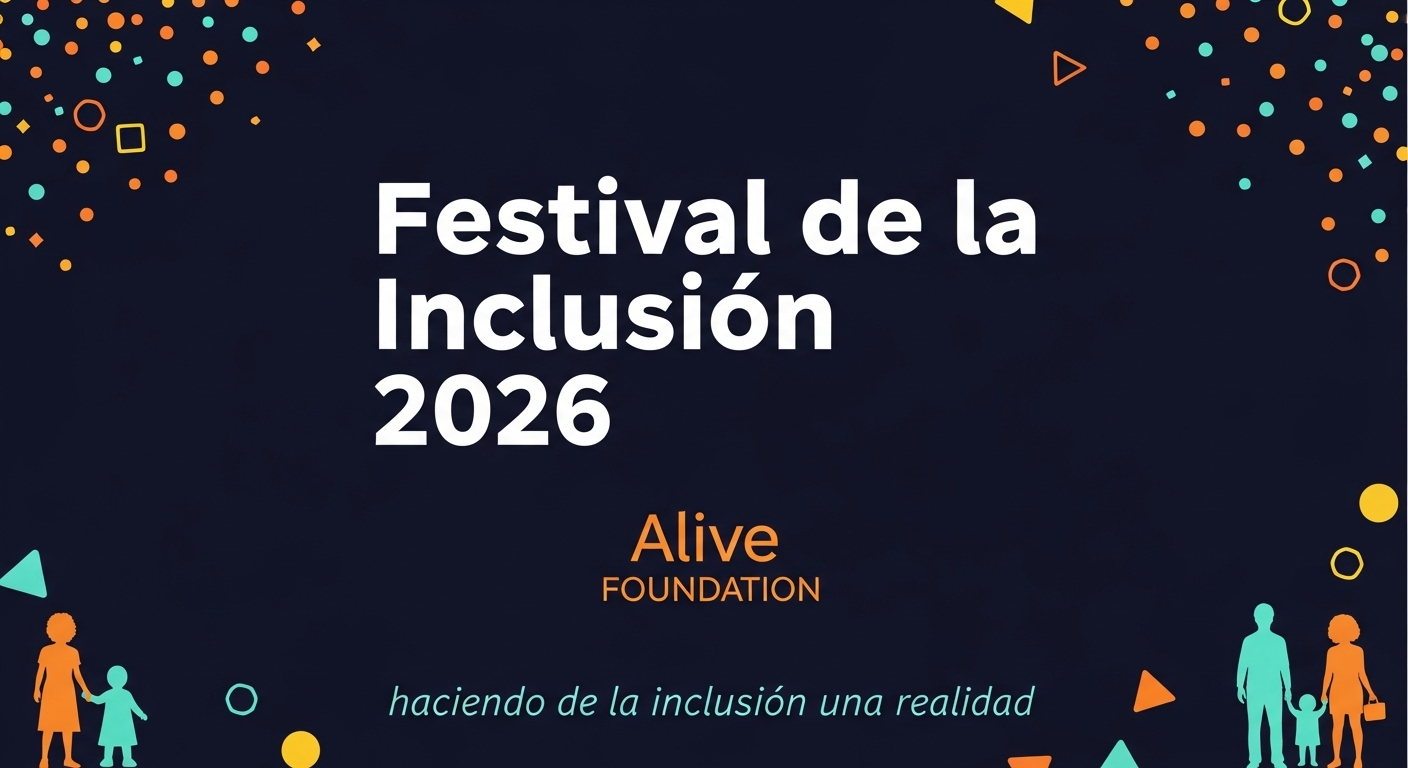
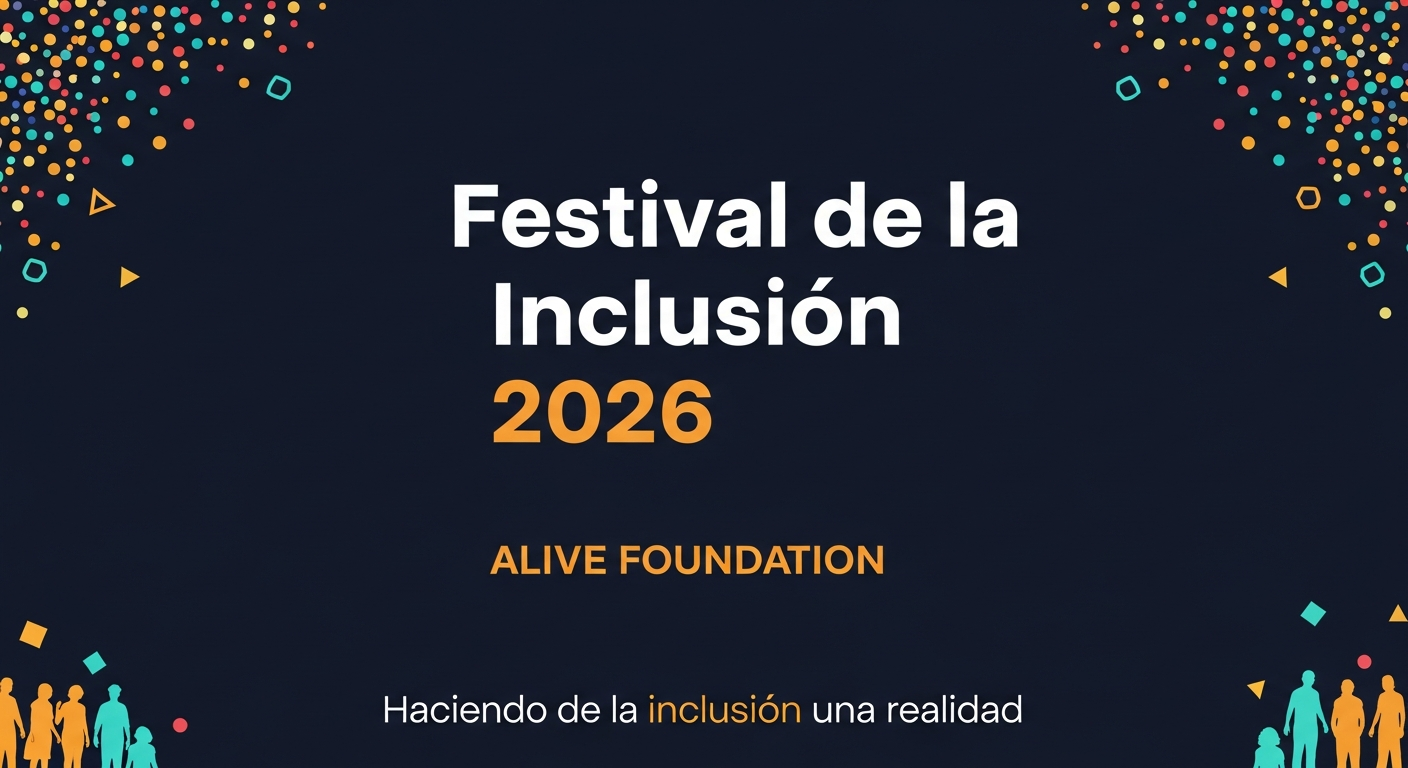
Equipo, galería de terapias y ajustes varios
- Añadida Lissette Fermín Genao al equipo
- Galería de fotos de terapias (17 imágenes)
- Horario del festival a 9:00 AM – 2:00 PM
- OG image regenerada
- Email/teléfono actualizados
- Slogan "Haciendo" capitalizado
- Foto grupal reemplazada (incluye a Lissette, sin "Desliza")
- Removido @alive.foundation duplicado del footer

diff --git a/artifacts/alive-foundation/src/components/TherapyGallery.tsx b/artifacts/alive-foundation/src/components/TherapyGallery.tsx
@@ -1,0 +1,69 @@
+import { motion } from "framer-motion";
+import { Heart } from "lucide-react";
+
+const BASE = import.meta.env.BASE_URL;
+
+const PHOTOS = Array.from({ length: 17 }, (_, i) => `therapy/therapy-${String(i + 1).padStart(2, "0")}.jpg`);
+
+export default function TherapyGallery() {
+  return (
+    <section className="py-24 bg-gradient-to-b from-white via-brand-yellow/5 to-white relative overflow-hidden">
+      <div className="absolute top-32 right-0 h-72 w-72 rounded-full bg-brand-orange/10 blur-3xl pointer-events-none" />
+      <div className="absolute bottom-20 left-0 h-80 w-80 rounded-full bg-brand-aqua/10 blur-3xl pointer-events-none" />
+
+      <div className="container mx-auto px-4 sm:px-6 lg:px-8 relative z-10">
+        <motion.div
+          initial={{ opacity: 0, y: 20 }}
+          whileInView={{ opacity: 1, y: 0 }}
+          viewport={{ once: true }}
+          transition={{ duration: 0.6 }}
+          className="text-center mb-14 max-w-3xl mx-auto"
+        >
+          <div className="inline-flex items-center gap-2 px-4 py-2 rounded-full bg-brand-yellow/20 text-brand-orange mb-4">
+            <Heart className="h-4 w-4 fill-brand-orange" />
+            <span className="text-sm font-bold tracking-wide uppercase">Nuestras Terapias</span>
+          </div>
+          <h2 className="text-3xl md:text-5xl font-heading font-black text-brand-navy mb-4">
+            Momentos que <span className="text-brand-aqua">transforman vidas</span>
+          </h2>
+          <p className="text-brand-blue-text text-lg leading-relaxed">
+            Cada sonrisa, cada logro, cada pequeño paso adelante es la razón por la que existimos. Estos son algunos de los niños y niñas con quienes compartimos terapias y experiencias inolvidables.
+          </p>
+        </motion.div>
+
+        <div className="max-w-6xl mx-auto columns-2 md:columns-3 lg:columns-4 gap-4 [column-fill:_balance]">
+          {PHOTOS.map((src, idx) => (
+            <motion.div
+              key={src}
+              initial={{ opacity: 0, y: 20 }}
+              whileInView={{ opacity: 1, y: 0 }}
+              viewport={{ once: true, margin: "-50px" }}
+              transition={{ duration: 0.5, delay: (idx % 8) * 0.05 }}
+              className="mb-4 break-inside-avoid group"
+            >
+              <div className="relative rounded-2xl overflow-hidden border-4 border-white shadow-md group-hover:shadow-2xl transition-all duration-300 group-hover:-translate-y-1 bg-brand-aqua/10">
+                <img
+                  src={BASE + src}
+                  alt={`Terapia con niños — Alive Foundation ${idx + 1}`}
+                  loading="lazy"
+                  className="w-full h-auto object-cover transition-transform duration-500 group-hover:scale-105"
+                />
+                <div className="absolute inset-0 bg-gradient-to-t from-brand-navy/40 via-transparent to-transparent opacity-0 group-hover:opacity-100 transition-opacity duration-300" />
+              </div>
+            </motion.div>
+          ))}
+        </div>
+
+        <motion.p
+          initial={{ opacity: 0 }}
+          whileInView={{ opacity: 1 }}
+          viewport={{ once: true }}
+          transition={{ duration: 0.6, delay: 0.3 }}
+          className="text-center mt-12 font-heading italic text-brand-navy text-lg md:text-xl max-w-2xl mx-auto"
+        >
+          "La inclusión no se enseña con palabras, <span className="text-brand-orange font-bold">se vive con el corazón</span>."
+        </motion.p>
+      </div>
+    </section>
+  );
+}

diff --git a/artifacts/alive-foundation/src/components/TeamSection.tsx b/artifacts/alive-foundation/src/components/TeamSection.tsx
@@ -34,9 +34,15 @@ const TEAM: TeamMember[] = [
   },
   {
     name: "Dra. Yamell Camilo",
-    role: "Relaciones Interinstitucionales",
+    role: "Relaciones Interinstitucionales y Voluntariado",
     bio: "Médica y madre sensibilizada con la inclusión. Aporta empatía y formación a familias con miembros con necesidades en su neurodesarrollo.",
     image: "team/yamell-relaciones.jpg",
+  },
+  {
+    name: "Lissette Fermín Genao",
+    role: "Relaciones Públicas y Eventos",
+    bio: "Event Planner y especialista en organización de eventos. Aporta planificación estratégica, comunicación y una visión enfocada en crear experiencias memorables.",
+    image: "team/lissette-relaciones.jpg",
   },
 ];
 
@@ -64,12 +70,12 @@ export default function TeamSection() {
             Conoce el corazón detrás de <span className="text-brand-orange">Alive Foundation</span>
           </h2>
           <p className="text-brand-blue-text text-lg leading-relaxed">
-            Cinco mujeres, cinco historias, un mismo propósito. Madres, profesionales y amigas que comparten un sueño: <strong className="text-brand-navy">servir y transformar vidas</strong>.
+            Seis mujeres, seis historias, un mismo propósito. Madres, profesionales y amigas que comparten un sueño: <strong className="text-brand-navy">servir y transformar vidas</strong>.
           </p>
         </motion.div>
 
         {/* Team grid - hex-inspired offset */}
-        <div className="grid grid-cols-2 md:grid-cols-3 lg:grid-cols-5 gap-5 max-w-6xl mx-auto">
+        <div className="grid grid-cols-2 md:grid-cols-3 gap-5 max-w-5xl mx-auto">
           {TEAM.map((member, idx) => (
             <motion.div
               key={member.name}
@@ -111,17 +117,14 @@ export default function TeamSection() {
           transition={{ duration: 0.7, delay: 0.2 }}
           className="mt-16 md:mt-24 max-w-5xl mx-auto"
         >
-          <div className="relative rounded-3xl overflow-hidden shadow-2xl border-8 border-white">
+          <div className="relative rounded-3xl overflow-hidden shadow-2xl border-8 border-white bg-white">
             <img
-              src={BASE + "team/equipo-completo.jpg"}
-              alt="Equipo completo de Alive Foundation"
+              src={BASE + "team/equipo-completo.webp"}
+              alt="El equipo detrás de Alive Foundation"
               loading="lazy"
               className="w-full h-auto"
             />
           </div>
-          <p className="text-center mt-6 font-heading italic text-brand-navy text-lg md:text-xl">
-            "Cuando la pasión por ayudar nos conecta, <span className="text-brand-orange font-bold">no hay límites</span>."
-          </p>
         </motion.div>
       </div>
     </section>

diff --git a/artifacts/alive-foundation/src/pages/home.tsx b/artifacts/alive-foundation/src/pages/home.tsx
@@ -3,6 +3,7 @@ import { ArrowRight, Heart, Users, HandHeart, Calendar, MapPin, Clock, Sparkles,
 import { Button } from "@/components/ui/button";
 import LocalVideoEmbed from "@/components/LocalVideoEmbed";
 import TeamSection from "@/components/TeamSection";
+import TherapyGallery from "@/components/TherapyGallery";
 import AnimatedLogo from "@/components/AnimatedLogo";
 import festivalImage from "@assets/IMG-20260521-WA0017_1779575433983.jpg";
 
@@ -143,7 +144,7 @@ export default function Home() {
               transition={{ duration: 0.6, delay: 0.2 }}
               className="text-xl md:text-3xl font-medium text-brand-aqua mb-12 font-heading"
             >
-              "haciendo de la inclusión una realidad"
+              "Haciendo de la inclusión una realidad"
             </motion.p>
 
             <motion.div 
@@ -159,7 +160,7 @@ export default function Home() {
               <div className="hidden sm:block w-1.5 h-1.5 rounded-full bg-white/30" />
               <div className="flex items-center gap-3">
                 <Clock className="h-6 w-6 text-brand-yellow" />
-                <span className="text-lg">10:00 a.m. – 2:00 p.m.</span>
+                <span className="text-lg">9:00 a.m. – 2:00 p.m.</span>
               </div>
             </motion.div>
 
@@ -250,6 +251,9 @@ export default function Home() {
 
       {/* Team Section */}
       <TeamSection />
+
+      {/* Therapy Gallery */}
+      <TherapyGallery />
 
       {/* Plans Section */}
       <section id="planes" className="py-24 bg-white scroll-mt-24">

diff --git a/artifacts/alive-foundation/src/pages/public-invitation.tsx b/artifacts/alive-foundation/src/pages/public-invitation.tsx
@@ -180,7 +180,7 @@ export default function PublicInvitation() {
             Alive Foundation
           </p>
           <p className="text-white/60 text-sm italic">
-            haciendo de la inclusión una realidad
+            Haciendo de la inclusión una realidad
           </p>
         </div>
       </div>
@@ -258,7 +258,7 @@ export default function PublicInvitation() {
 
             {/* Slogan */}
             <p className="font-heading italic text-brand-aqua text-lg sm:text-xl mt-8">
-              "haciendo de la inclusión una realidad"
+              "Haciendo de la inclusión una realidad"
             </p>
           </div>
         </div>
@@ -337,7 +337,7 @@ export default function PublicInvitation() {
 
                 <div className="flex items-start gap-3">
                   <Clock className="h-5 w-5 text-brand-yellow shrink-0 mt-0.5" />
-                  <p className="font-bold">10:00 a.m. – 2:00 p.m.</p>
+                  <p className="font-bold">9:00 a.m. – 2:00 p.m.</p>
                 </div>
 
                 <div className="flex items-start gap-3">

diff --git a/artifacts/alive-foundation/src/components/layout/footer.tsx b/artifacts/alive-foundation/src/components/layout/footer.tsx
@@ -32,7 +32,7 @@ export default function Footer() {
               </li>
               <li className="flex items-start gap-3">
                 <Instagram className="h-5 w-5 text-brand-orange shrink-0" />
-                <a href="https://instagram.com/alivefoundationrd" target="_blank" rel="noreferrer" className="hover:text-brand-orange transition-colors">@alive.foundation<br/>@alivefoundationrd</a>
+                <a href="https://instagram.com/alivefoundationrd" target="_blank" rel="noreferrer" className="hover:text-brand-orange transition-colors">@alivefoundationrd</a>
               </li>
               <li className="flex items-start gap-3">
                 <MapPin className="h-5 w-5 text-brand-orange shrink-0" />
